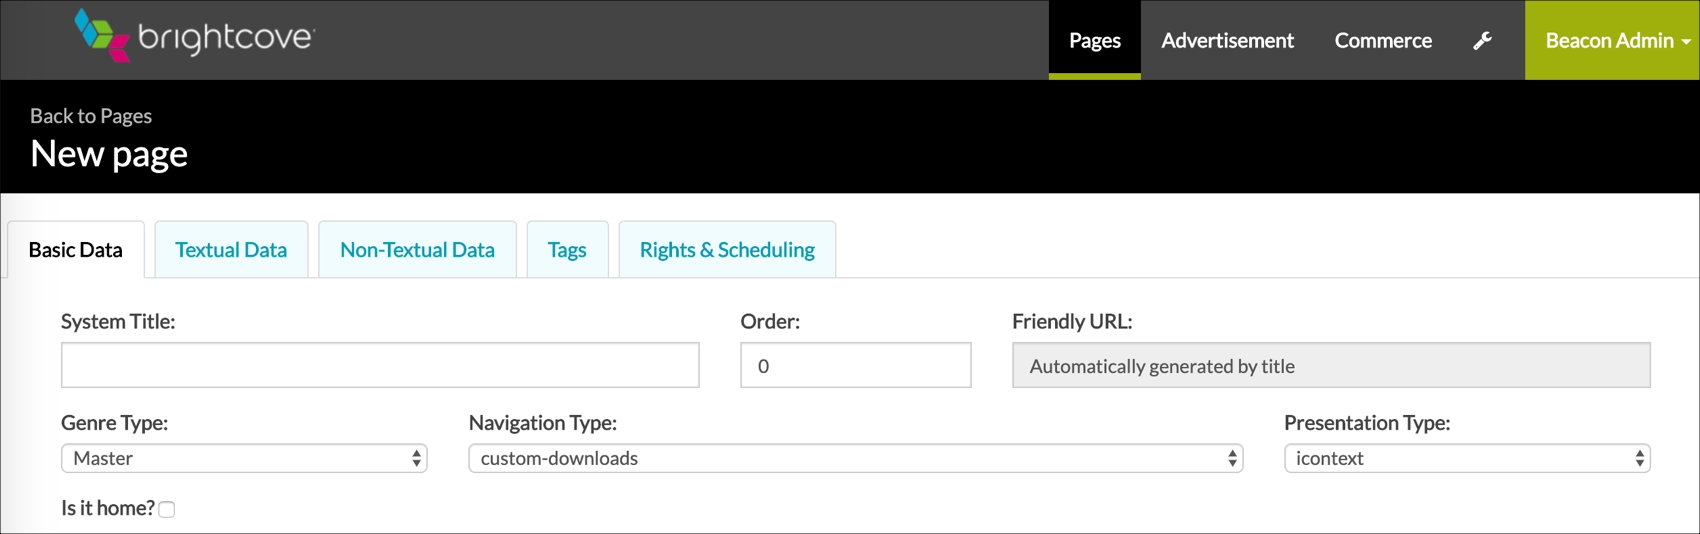
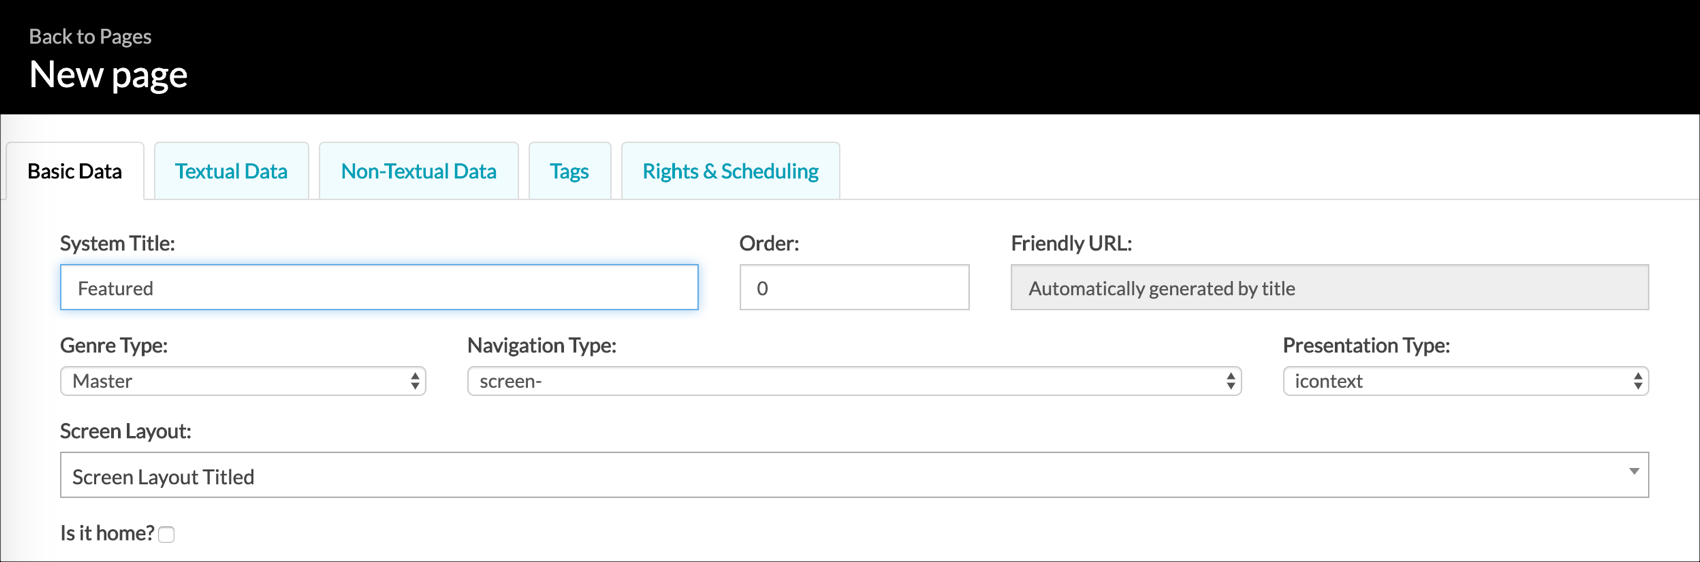
wip: create a page

diff --git a/using-brightcove-beacon/creating-a-page.html b/using-brightcove-beacon/creating-a-page.html
@@ -42,12 +42,65 @@ parent: Using Brightcove Beacon
       </li>
       <li>
         <p>
-          For the <strong>Basic Data</strong> tab, define field values.
+          For the <strong>Basic Data</strong> tab, enter the following field values:
         </p>
         <figure class="bcls-figure">
           <img class="bcls-image--no-border" width="850" src="/assets/images/pages/adding-page/basic-data.png" alt="Basic Data">
           <figcaption class="bcls-caption--image">Basic Data</figcaption>
         </figure>
+        <ul>
+          <li>
+            <strong>System Title</strong> - Internal system page name. This will not be displayed to users, but is used to generate a friendly URL. You will enter a viewable title in a later step.
+          </li>
+          <li>
+            <strong>Order</strong> - Page order on your home page
+          </li>
+          <li>
+            <strong>Genre Type</strong> - Values:
+            <ul>
+              <li>
+                <strong>Master</strong> - Main page
+              </li>
+              <li>
+                <strong>Child</strong> - Subordinate page
+              </li>
+            </ul>
+          </li>
+          <li>
+            <strong>Navigation Type</strong> - Select from a list of page templates
+          </li>
+          <li>
+            <strong>Presentation Type</strong> - Values:
+            <ul>
+              <li>
+                <strong>icontext</strong> - Display an icon with text inside of it
+              </li>
+              <li>
+                <strong>icon</strong> - Display an icon
+              </li>
+              <li>
+                <strong>text</strong> - Display text
+              </li>
+            </ul>
+          </li>
+          <li>
+            <strong>Screen Layout</strong> - Values: (not every Navigation Type will have a Screen Layout)
+            <ul>
+              <li>
+                <strong>Screen Layout Titled</strong> - With titles
+              </li>
+              <li>
+                <strong>Screen Layout Without Title</strong> - No titles
+              </li>
+            </ul>
+          </li>
+          <li>
+            <strong>Is it home?</strong> - Select if this is the home page
+          </li>
+        </ul>
+      </li>
+      <li>
+        Next, we will add a block to the page. Blocks are containers for your playlists. Some Navigation Types do not have blocks, such as sign-in and logout types. We will select a <strong>Navigation Type</strong> with a value of <strong>screen</strong>.
       </li>
 
 
